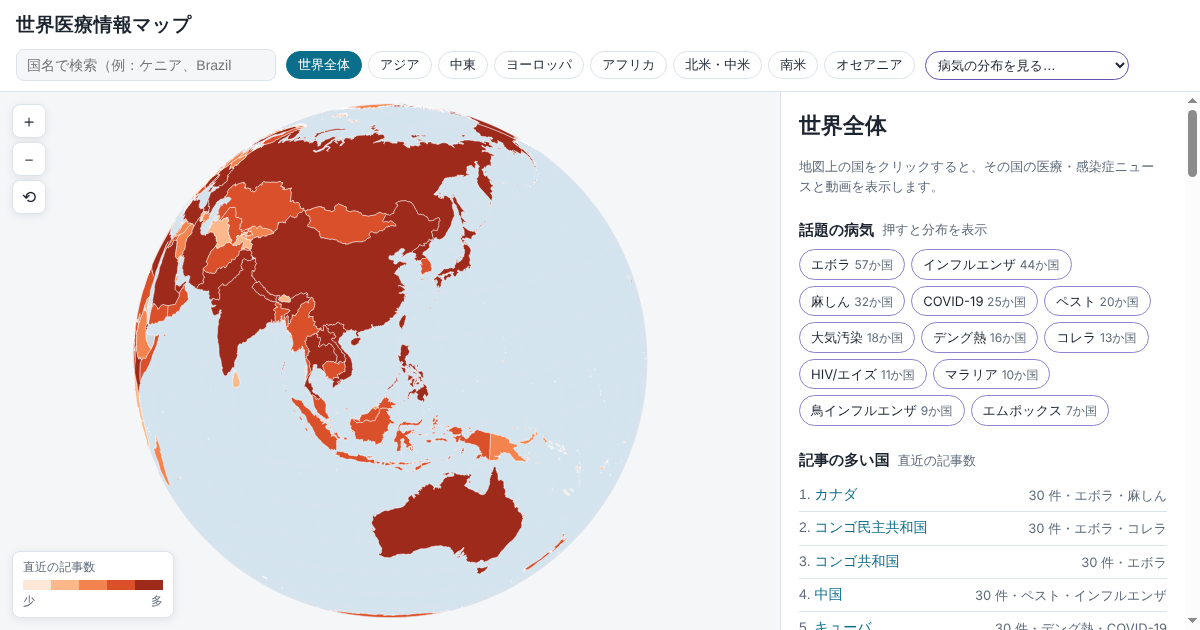
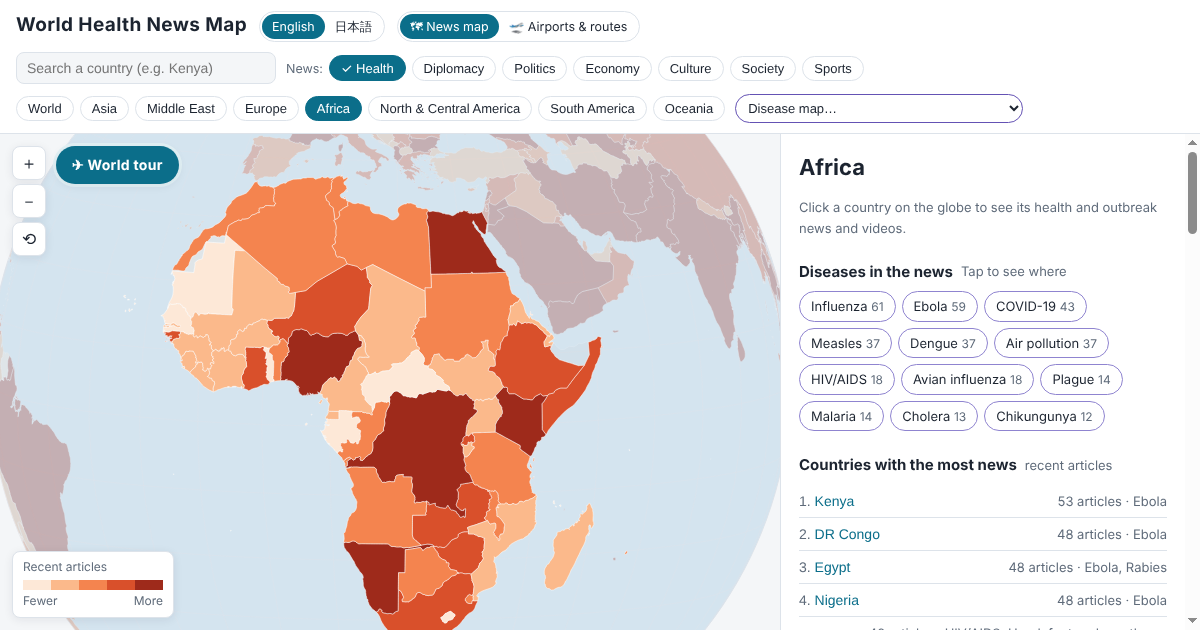
ふだんの表示言語を英語にし、日本語は選んだときだけにする
- 初めて開いたときは英語。「日本語」を選ぶと、次からも日本語で開く
- ページの元の文言（タイトル・説明・SNS 用カード・ボタンなど）も英語にし、日本語は data-ja に持つ
- 言語の切り替えは English を先に並べる。共有用の画像も英語の画面で作り直す

Claude-Session: https://claude.ai/code/session_0175FRMetETrBxrZFMht3svi

diff --git a/world-health-map/index.html b/world-health-map/index.html
@@ -1,64 +1,65 @@
 <!doctype html>
-<html lang="ja">
+<html lang="en">
 <head>
   <meta charset="utf-8">
   <meta name="viewport" content="width=device-width, initial-scale=1">
-  <title>世界医療情報マップ</title>
-  <meta name="description" content="地球儀の国をクリックすると、その国の医療・感染症ニュースと動画が見られます。病名を選ぶと報道ベースの分布も表示。毎朝自動更新。">
+  <title>World Health News Map</title>
+  <meta name="description" content="Click a country on the globe to see its health and outbreak news and videos. Pick a disease to see where it is in the news. Updated every morning.">
   <!-- SNS で共有したときのカード表示 -->
   <meta property="og:type" content="website">
-  <meta property="og:site_name" content="世界医療情報マップ">
-  <meta property="og:title" content="世界医療情報マップ">
-  <meta property="og:description" content="地球儀の国をクリックすると、その国の医療・感染症ニュースと動画が見られます。病名を選ぶと報道ベースの分布も表示。毎朝自動更新。">
+  <meta property="og:site_name" content="World Health News Map">
+  <meta property="og:title" content="World Health News Map">
+  <meta property="og:description" content="Click a country on the globe to see its health and outbreak news and videos. Pick a disease to see where it is in the news. Updated every morning.">
   <meta property="og:url" content="https://ysk713.github.io/-/world-health-map/">
   <meta property="og:image" content="https://ysk713.github.io/-/world-health-map/og-image.png">
   <meta property="og:image:width" content="1200">
   <meta property="og:image:height" content="630">
-  <meta property="og:locale" content="ja_JP">
+  <meta property="og:locale" content="en_US">
+  <meta property="og:locale:alternate" content="ja_JP">
   <meta name="twitter:card" content="summary_large_image">
   <link rel="canonical" href="https://ysk713.github.io/-/world-health-map/">
-  <link rel="stylesheet" href="style.css?v=20261023g">
+  <link rel="stylesheet" href="style.css?v=20261024a">
 </head>
 <body>
   <header class="topbar">
     <div class="brand">
-      <h1 data-en="World Health News Map">世界医療情報マップ</h1>
-      <span id="updated" class="muted">データ読み込み中…</span>
-      <div id="lang" class="lang-tabs" role="tablist" aria-label="表示言語 / Language">
-        <button type="button" role="tab" data-lang="ja" aria-selected="true">日本語</button>
-        <button type="button" role="tab" data-lang="en" aria-selected="false">English</button>
+      <h1 data-en="World Health News Map" data-ja="世界医療情報マップ">World Health News Map</h1>
+      <span id="updated" class="muted">Loading data…</span>
+      <div id="lang" class="lang-tabs" role="tablist" aria-label="Language / 表示言語">
+        <button type="button" role="tab" data-lang="en" aria-selected="true">English</button>
+        <button type="button" role="tab" data-lang="ja" aria-selected="false">日本語</button>
       </div>
-      <div id="mode" class="lang-tabs mode-tabs" role="tablist" aria-label="表示" data-en-label="View">
-        <button type="button" role="tab" data-mode="news" aria-selected="true" data-en="🗺 News map">🗺 ニュース地図</button>
-        <button type="button" role="tab" data-mode="air" aria-selected="false" data-en="🛫 Airports &amp; routes">🛫 空港・路線</button>
+      <div id="mode" class="lang-tabs mode-tabs" role="tablist" aria-label="View" data-ja-label="表示" data-en-label="View">
+        <button type="button" role="tab" data-mode="news" aria-selected="true" data-en="🗺 News map" data-ja="🗺 ニュース地図">🗺 News map</button>
+        <button type="button" role="tab" data-mode="air" aria-selected="false" data-en="🛫 Airports &amp; routes" data-ja="🛫 空港・路線">🛫 Airports &amp; routes</button>
       </div>
     </div>
     <div class="controls">
-      <input id="search" type="search" placeholder="国名で検索（例：ケニア、Brazil）" data-en-placeholder="Search a country (e.g. Kenya)" list="country-list" autocomplete="off">
+      <input id="search" type="search" placeholder="Search a country (e.g. Kenya)" data-ja-placeholder="国名で検索（例：ケニア、Brazil）" data-en-placeholder="Search a country (e.g. Kenya)" list="country-list" autocomplete="off">
       <datalist id="country-list"></datalist>
-      <div id="types" class="chips types" role="group" aria-label="ニュースの種類" data-en-label="News types"></div>
-      <div id="regions" class="chips" role="tablist" aria-label="地域" data-en-label="Regions"></div>
-      <select id="disease" aria-label="病気の分布を見る" data-en-label="Disease map"><option value="">病気の分布を見る…</option></select>
-      <button id="translate-btn" class="chip translate" hidden>見出しを日本語に訳す</button>
+      <div id="types" class="chips types" role="group" aria-label="News types" data-ja-label="ニュースの種類" data-en-label="News types"></div>
+      <div id="regions" class="chips" role="tablist" aria-label="Regions" data-ja-label="地域" data-en-label="Regions"></div>
+      <select id="disease" aria-label="Disease map" data-ja-label="病気の分布を見る" data-en-label="Disease map"><option value="">Disease map…</option></select>
+      <button id="translate-btn" class="chip translate" hidden>Translate headlines</button>
     </div>
   </header>
 
   <main class="layout">
-    <section class="map-wrap" aria-label="世界地図" data-en-label="World map">
-      <svg id="map" role="img" aria-label="国をクリックすると医療情報が表示されます" data-en-label="Click a country to see its health news"></svg>
+    <section class="map-wrap" aria-label="World map" data-ja-label="世界地図" data-en-label="World map">
+      <svg id="map" role="img" aria-label="Click a country to see its health news" data-ja-label="国をクリックすると医療情報が表示されます" data-en-label="Click a country to see its health news"></svg>
       <div id="tooltip" class="tooltip" hidden></div>
-      <button id="tour-btn" type="button" class="map-tour" aria-pressed="false" aria-haspopup="menu" aria-expanded="false" aria-controls="tour-menu" data-en="✈ World tour">✈ ワールドツアー</button>
+      <button id="tour-btn" type="button" class="map-tour" aria-pressed="false" aria-haspopup="menu" aria-expanded="false" aria-controls="tour-menu" data-en="✈ World tour" data-ja="✈ ワールドツアー">✈ World tour</button>
       <div id="tour-menu" class="tour-menu" role="menu" hidden></div>
       <div id="callout" class="callout" role="dialog" aria-live="polite" hidden></div>
       <div class="map-tools">
-        <button id="zoom-in" title="拡大" aria-label="拡大" data-en-title="Zoom in" data-en-label="Zoom in">＋</button>
-        <button id="zoom-out" title="縮小" aria-label="縮小" data-en-title="Zoom out" data-en-label="Zoom out">－</button>
-        <button id="zoom-reset" title="全体表示" aria-label="全体表示" data-en-title="Reset view" data-en-label="Reset view">⟲</button>
+        <button id="zoom-in" title="Zoom in" data-ja-title="拡大" aria-label="Zoom in" data-ja-label="拡大" data-en-title="Zoom in" data-en-label="Zoom in">＋</button>
+        <button id="zoom-out" title="Zoom out" data-ja-title="縮小" aria-label="Zoom out" data-ja-label="縮小" data-en-title="Zoom out" data-en-label="Zoom out">－</button>
+        <button id="zoom-reset" title="Reset view" data-ja-title="全体表示" aria-label="Reset view" data-ja-label="全体表示" data-en-title="Reset view" data-en-label="Reset view">⟲</button>
       </div>
-      <div class="legend" aria-label="凡例" data-en-label="Legend">
-        <span id="legend-title">直近の記事数</span>
+      <div class="legend" aria-label="Legend" data-ja-label="凡例" data-en-label="Legend">
+        <span id="legend-title">Recent articles</span>
         <div id="legend-scale" class="legend-scale"></div>
-        <div class="legend-labels"><span data-en="Fewer">少</span><span data-en="More">多</span></div>
+        <div class="legend-labels"><span data-en="Fewer" data-ja="少">Fewer</span><span data-en="More" data-ja="多">More</span></div>
       </div>
     </section>
 
@@ -67,7 +68,7 @@
 
   <template id="tpl-video">
     <div class="video-block">
-      <div class="player"><iframe title="動画" allow="accelerometer; encrypted-media; gyroscope; picture-in-picture; fullscreen" loading="lazy" referrerpolicy="strict-origin-when-cross-origin"></iframe></div>
+      <div class="player"><iframe title="Video" allow="accelerometer; encrypted-media; gyroscope; picture-in-picture; fullscreen" loading="lazy" referrerpolicy="strict-origin-when-cross-origin"></iframe></div>
       <p class="video-title"></p>
       <div class="thumbs"></div>
     </div>
@@ -75,6 +76,6 @@
 
   <script src="https://cdn.jsdelivr.net/npm/d3@7.9.0/dist/d3.min.js"></script>
   <script src="https://cdn.jsdelivr.net/npm/topojson-client@3.1.0/dist/topojson-client.min.js"></script>
-  <script src="app.js?v=20261023g"></script>
+  <script src="app.js?v=20261024a"></script>
 </body>
 </html>

diff --git a/world-health-map/app.js b/world-health-map/app.js
@@ -52,7 +52,7 @@ const state = {
   selected: null,     // a2
   langFilter: "all",
   disease: null,      // 病気の分布を表示中ならその病名（データ上の日本語名）
-  lang: "ja",
+  lang: "en",         // 表示言語（ふだんは英語）
   dz: null,           // Map<a2, Map<病名, 記事数>>
   types: new Set(["health"]),  // 表示するニュースの種類（複数選べる）
   mode: "news",       // "news"（ニュース地図）か "air"（空港・路線）
@@ -88,7 +88,8 @@ async function loadJSON(url) {
 }
 
 async function init() {
-  try { if (localStorage.getItem(LANG_KEY) === "en") state.lang = "en"; } catch { /* 保存できない環境 */ }
+  // ふだんは英語。日本語を選んだことがあれば日本語で開く
+  try { if (localStorage.getItem(LANG_KEY) === "ja") state.lang = "ja"; } catch { /* 保存できない環境 */ }
   try {
     const saved = JSON.parse(localStorage.getItem(TYPES_KEY) || "null");
     const ok = Array.isArray(saved) ? saved.filter((k) => NEWS_TYPES.some((t) => t[0] === k)) : [];
